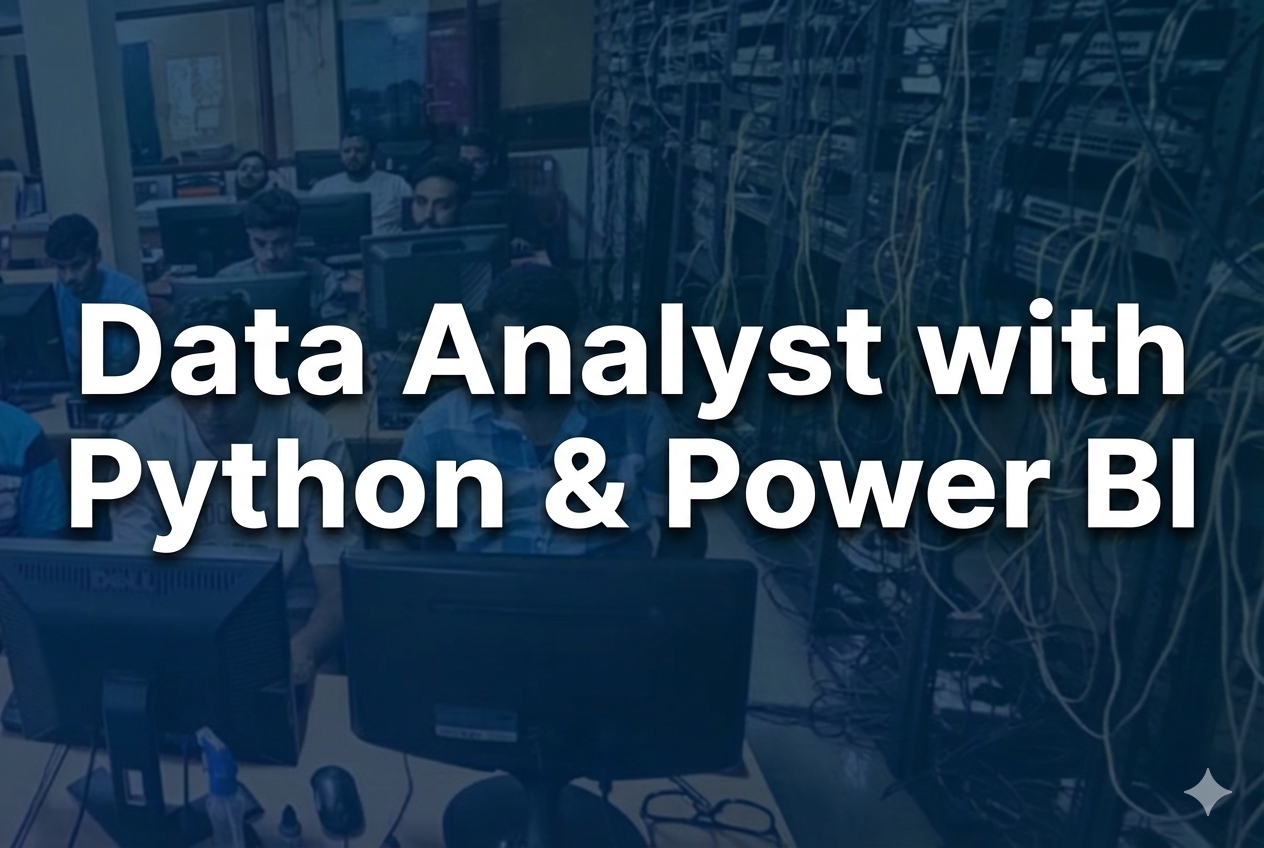
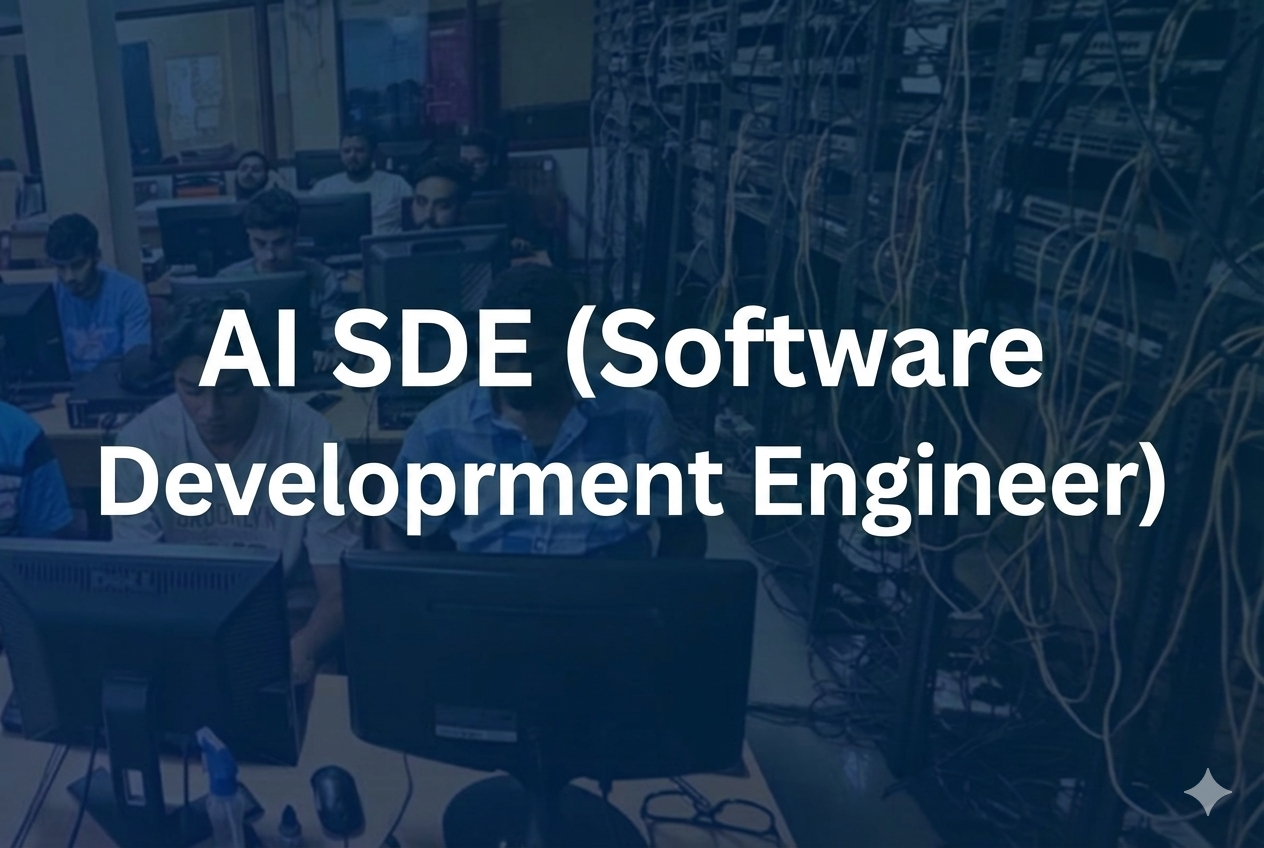
Change from AISDE to FULL STACK

Changed region(s): [[0.0309, 0.3373, 0.9565, 0.6745]]

diff --git a/lib/data/courses.ts b/lib/data/courses.ts
@@ -527,14 +527,14 @@ export const courses: Course[] = [
   {
     id: '11',
     slug: 'ai-sde',
-    title: 'AI SDE (Software Development Engineer)',
-    shortDescription: 'Industry-ready AI Software Development training with hands-on projects and structured learning.',
-    description: 'Our AI-SDE (AI Software Development Engineer) training program is designed to make you industry-ready with hands-on projects, real-world problem-solving, and structured learning. This 3-month program covers software fundamentals, frontend & backend development, JavaScript, AI tools, SQL, Data Structures, and project deployment.',
+    title: 'Full Stack Development (MERN) Using AI',
+    shortDescription: 'Industry-ready Full Stack Development training with hands-on projects and structured learning.',
+    description: 'Our Full Stack Development (MERN) training program is designed to make you industry-ready with hands-on projects, real-world problem-solving, and structured learning. This 3-month program covers software fundamentals, frontend & backend development, JavaScript, AI tools, SQL, Data Structures, and project deployment.',
     category: ['AI', 'Software Development', 'Full Stack'],
     mode: ['offline', 'online'],
     duration: '90 Days',
     level: 'advanced',
-    image: '/courses/DATA Analyst .png',
+    image: '/courses/FULL STACK Development (MERN) Using AI.png',
     badge: 'New',
     curriculum: [
       'WEEK 1: Software Engineering Fundamentals – Introduction to IT Industry, SDLC, Agile, Scrum, Git, GitHub, VS Code',
@@ -546,7 +546,7 @@ export const courses: Course[] = [
       'WEEK 12-13: AI Integration & Deployment – Python Basics for AI, AI Tools in Development, API Automation, Deployment on AWS/Render, Full-Stack + AI Project'
     ],
     prerequisites: ['Basic computer knowledge'],
-    certification: 'AI Software Development Engineer Certificate',
+    certification: 'Full Stack Software Development Engineer Certificate',
     highlights: [
       'Full Stack Development Skills',
       'Hands-on Projects',
@@ -556,12 +556,9 @@ export const courses: Course[] = [
       'Frontend & Backend Development'
     ],
     careerOpportunities: [
-      'AI Software Development Engineer',
       'Full Stack Developer',
-      'Python Developer',
       'Web Application Engineer',
       'Automation Developer',
-      'Junior Machine Learning Engineer',
       'Backend Developer',
       'Frontend Developer'
     ],
@@ -574,7 +571,7 @@ export const courses: Course[] = [
       'Project-based learning approach',
       'Individual attention and personalized guidance'
     ],
-    note: 'AI-SDE Training in Hyderabad at Firewall Zone Institute of Technology is led by certified experts and designed to help you master AI-driven software development, automation, and full-stack engineering. Learn through hands-on labs, real-world simulations, and project-focused modules to build advanced development skills and become job-ready.',
+    note: 'Full Stack Development (MERN) Using AI Training in Hyderabad at Firewall Zone Institute of Technology is led by certified experts and designed to help you master AI-driven software development, automation, and full-stack engineering. Learn through hands-on labs, real-world simulations, and project-focused modules to build advanced development skills and become job-ready.',
     whyChoose: [
       'High Demand – AI Software Development Engineers are in global demand',
       'Industry-Ready Skills – Build job-ready development skills from day one',
@@ -595,7 +592,7 @@ export const courses: Course[] = [
     mode: ['offline', 'online'],
     duration: '60 Days',
     level: 'advanced',
-    image: '/courses/AI SDE.png',
+    image: '/courses/DATA Analyst.png',
     badge: 'Trending',
     curriculum: [
       'WEEK 1: Basics of Python – Introduction to Python, Variables, Data Types, Input/Output, Conditional & Looping Statements',

diff --git a/components/Navigation.tsx b/components/Navigation.tsx
@@ -44,7 +44,7 @@ export default function Navigation() {
   ];
 
   const aiCoursesDropdown = [
-    { name: 'AI SDE (Software Development Engineer)', href: '/courses/ai-sde' },
+    { name: 'FULL STACK Development (MERN) Using AI', href: '/courses/ai-sde' },
     { name: 'Data Analyst with Python & Power BI', href: '/courses/data-analyst-python-powerbi' },
   ];
 

diff --git a/components/EnquiryForm.tsx b/components/EnquiryForm.tsx
@@ -11,8 +11,8 @@ const courses = [
   'CCNP Enterprise (R&S)',
   'CCNP R&S',
   'Cyber Security',
-  'AI SDE',
-  'Data Analyst with Python & Power BI',
+  'Full Stack Development (MERN) Using AI',
+  'Data Analyst with Python & Power BI',  
   'Fortinet Firewall',
   'Palo Alto',
   'Microsoft Azure',
